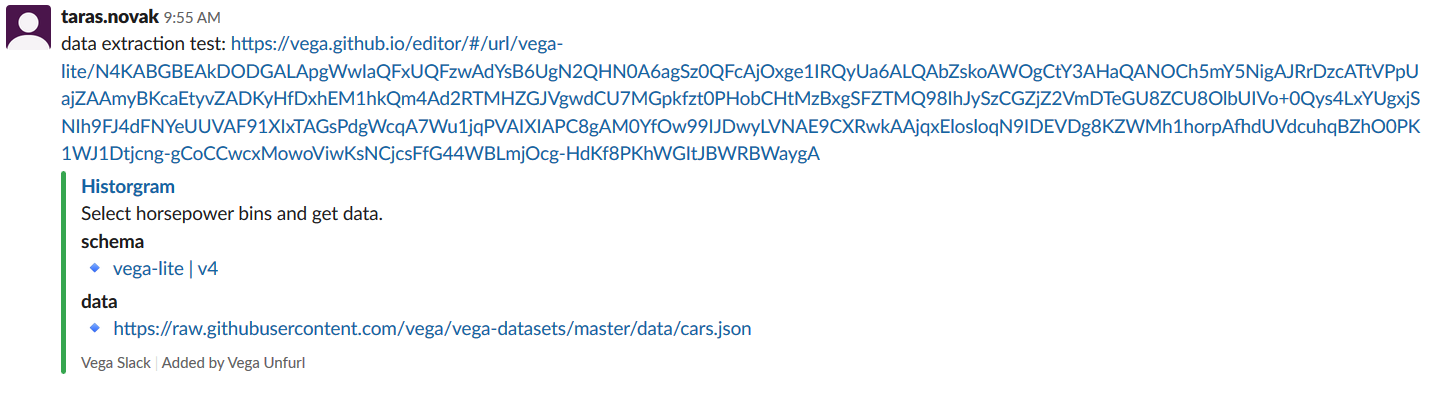
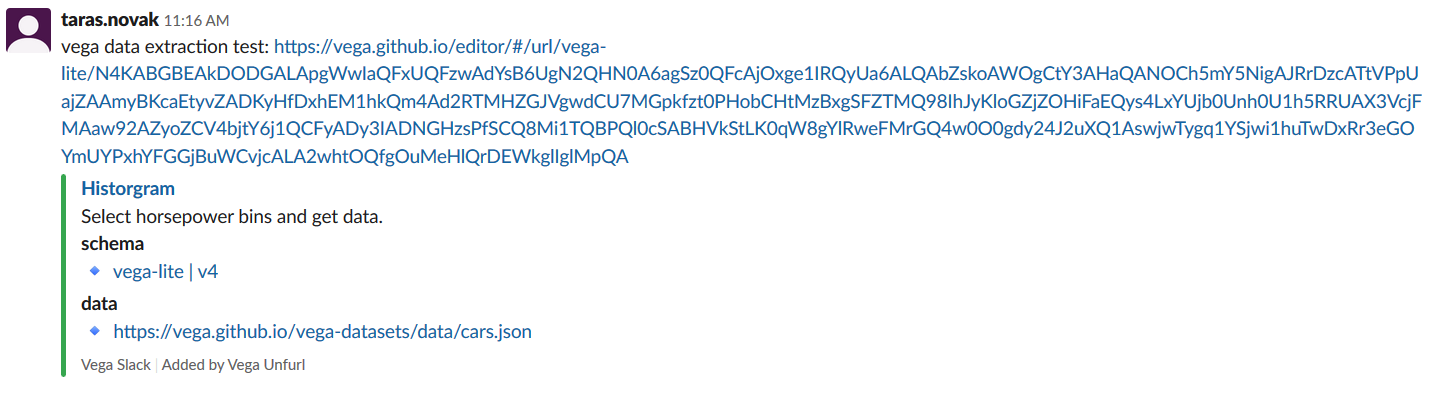
#3 use vega.github.io/vega-datasets/data base url for vega spec with data link example

diff --git a/README.md b/README.md
@@ -43,7 +43,7 @@ description and json schema information extracted from the shared encoded link.
   "$schema": "https://vega.github.io/schema/vega-lite/v4.json",
   "title": "Historgram",
   "description": "Select horsepower bins and get data.",
-  "data": {"url": "https://raw.githubusercontent.com/vega/vega-datasets/master/data/cars.json"},
+  "data": {"url": "https://vega.github.io/vega-datasets/data/cars.json"},
   "mark": "bar",
   "encoding": {
     "x": {"field": "Horsepower", "type": "quantitative", "bin": true},
